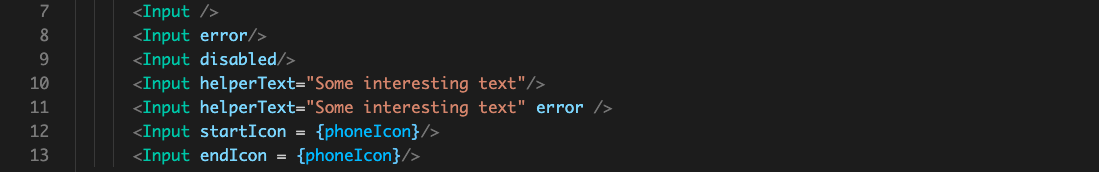
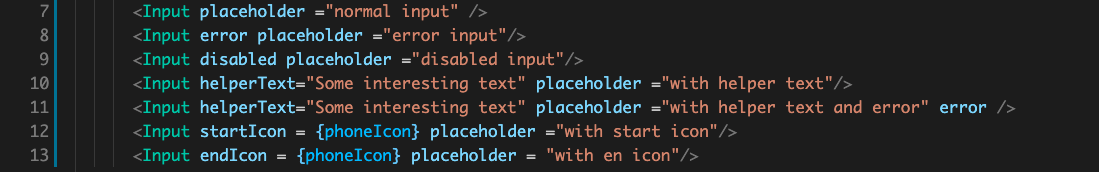
optimization and code review

diff --git a/src/components/App/App.js b/src/components/App/App.js
@@ -4,13 +4,13 @@ import phoneIcon from '../../assets/phone.svg'
 function App() {
   return (
     <div  id="app">
-      <Input />
-      <Input error/>
-      <Input disabled/>
-      <Input helperText="Some interesting text"/>
-      <Input helperText="Some interesting text" error />
-      <Input startIcon = {phoneIcon}/>
-      <Input endIcon = {phoneIcon}/>
+      <Input placeholder ="normal input" />
+      <Input error placeholder ="error input"/>
+      <Input disabled placeholder ="disabled input"/>
+      <Input helperText="Some interesting text" placeholder ="with helper text"/>
+      <Input helperText="Some interesting text" placeholder ="with helper text and error" error />
+      <Input startIcon = {phoneIcon} placeholder ="with start icon"/>
+      <Input endIcon = {phoneIcon} placeholder = "with end icon"/>
   </div >
   );
 }
